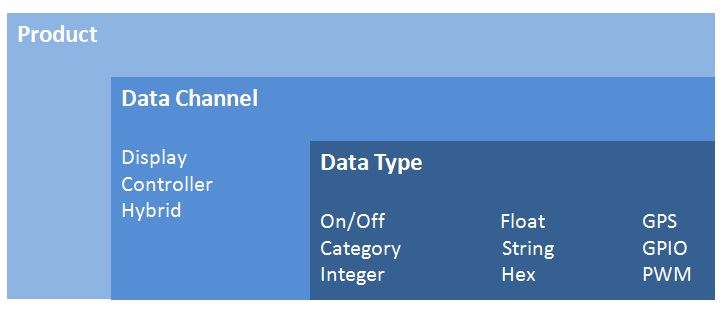
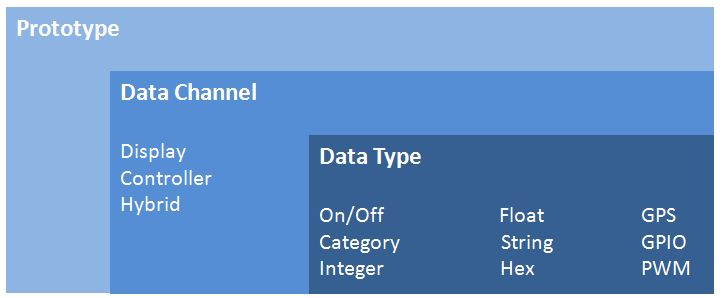
no message

diff --git a/key_concept/README.md b/key_concept/README.md
@@ -1,24 +1,23 @@
 # Key Concepts
 
-This section describes the key components that make up a Wearables or IoT device project in MediaTek Cloud Sandbox. The key components are defined across two phases:
-- Development phase
-- Management phase
+This section describes the key components that make up a Wearables or IoT device project in MediaTek Cloud Sandbox. The key components are defined across the whole prototype development phase.
 
 ## Development Phase
 
 ![](https://raw.githubusercontent.com/Mediatek-Cloud/MCS/master/graphics/product-structure.JPG)
 
-During the Development Phase you create **Products**, which may contain:
+During the Development Phase you create **Prototype**, which may contain:
 - **Data Channels**, each of a particular **Data Type**
 - **Notifications** for changes in the data received from or sent to a device
-- **User privileges** to enable team members or collaborators to view or edit products and device details
+- **User privileges** to enable team members or collaborators to view or edit prototypes and device details
 - **Firmware** versions that can be pushed to devices
-- **Manufacturer Information** that can be used to define additional information about a product
+- **Test device** enables the management of test devices for each prototype
 
-Once you have defined the necessary Product information, you can then add devices as you need throughout the development phase.
-### Product
+Once you have defined the necessary Prototype information, you can then add devices as you need throughout the development phase.
 
-A **Product** is the blueprint of the final device you’ll ship to users. Each product will have a unique product Id and product Ke. For the product maker, the product Id and product key are the differentiator for your product from the other product. When your product goes into mass production, your product's devices will use those information to be registered.
+### Prototype
+
+A **Prototype** is the blueprint of the final device you’ll ship to users. Each product will have a unique prototype Id and prototype Key. In the future, when the prototype is ready to be released, for the maker, the prototype Id and prototype key are the differentiator for your prototype from the others. When your prototype goes into mass production, your prototypes's devices will use those information to be registered.
 
 ### Data Channel
 
@@ -82,7 +81,7 @@ Each Data Channel can hold one of seven types of data:
 
 Notification function enables you to create criteria that trigger an email or cloud based notification be sent to specific users.
 
-Beta note: This feature is under development and presently enables you to set triggers on a specific channel and get an email notification, with ability to add additional user to the notified list. Triggers are available for:
+Notification enables you to set triggers on a specific channel and get an email notification, with ability to add additional user to the notified list. Triggers are available for:
 
 - data received on a channel being above or below a specific value, which will issue a defined number of notifications while the data remains above or below the trigger value
 
@@ -90,55 +89,21 @@ Beta note: This feature is under development and presently enables you to set tr
 
 
 ### User privileges
-This feature will enable you to give other MCS users various privileges to access the Product, such as the ability to view the Product settings, create a device and alike.
-Beta note: This feature hasn’t been implemented yet.
+This feature will enable you to give other MCS users various privileges to access the Prototype, such as the ability to view the Prototype settings, create a device and alike.
+
 
 ### Firmware
 
-After the product is released you can upload firmware updates to the sandbox. The sandbox will then detect all compatible devices and offer their users the option to update the devices’ firmware over the air.
+The developer can upload and manage the firmware for specific prototype. After the prototype is released you can also upload firmware updates to the sandbox. The sandbox will then detect all compatible devices and offer their users the option to update the devices’ firmware over the air.
 
+### Test Devices ###
 
-### Manufacturing Info
-
-This product attribute enables you to further describe your product with a series of items consisting of a title and description. This information will be visible to end users in their **My Devices** page.
-
-### Devices ###
-
-During development, you’re able to create test devices from the Product details. Each device you create is given a **Device ID** and **Device Key**, which you use in the MediaTek Cloud Sandbox APIs to identify data pushed and pulled to the device. Device details, along with their ID and key, are displayed in your **Management** workbench and **My Devices** page.
-
-## Management Phase
-
-Once the development of your product is complete and you wish to start pre-commercial testing, you can migrate your product to the Management Phase. Once released, you can create release devices for the product, considered as you have completed and tested you prototype phased into mass production of the product. The management phase is the management of the mass produced devices. Starting from creating each individual devices a placeholder for data interactions. The first step to so create a placeholder for each device for their initial "registration" step. The management of the devices from developer's perspective is under the Management workbench.
-### Product Release
-
-After a final product is developed and be tested using the test devices, the developer can release the product for deployment which transfer the product from the development state to the release state. After release, the end user is able to create devices out of this released product in the **Management** workbench.
-
-
-### Batch Create with Key
-
-The serial number is a unique key assigned to each device which will be accessible while the device registration. The device will need this key to enable it to be registered. The unique key can be generated by uploading a CSV file which has one device serial number per line or by entering the serial numbers manually.
-
-
-
-### Batch Create without Key
-
-When each device does not need a unique key to be registered, you can then create the devices without key.
-
-
-
-### Device Registration
-
-After a device is created, it can be registered or de-registered in the management page. While a device is registered, it is ready to be used. The user can register or de-register the device using the registerDevices and deregisterDevices. You can find the API information in the API reference page.
-
+During development, you’re able to create test devices from the Prototype details. Each device you create is given a **Device ID** and **Device Key**, which you use in the MediaTek Cloud Sandbox APIs to identify data pushed and pulled to the device. Device details, along with their ID and key, are displayed in your **My Devices** page.
 
 
 ## My Devices
 
 
-The end user can use the **My Devices** to manage the devices they own or have the access. In this page, the end user can see the exact Data Channel configurations as defined in the product. Although the end user cannot change the Data Channel configuration, the end user can do other settings base on preference. The end user can view the time-series based data in a historical visualization chart and GPS geolocation data in a map.
+The developers can use the **My Devices** to manage the devices they own or have the access. In this page, the developers can see the exact Data Channel, user privilege, and notitification configurations as defined in the prototype. However, the developers can still modify the notification and user privilege settings for specific device on the My device detail page.
 
-Apart from viewing the data channel information, the user can set notification alert, set user privileges and get the firmware update directly here in My Devices page.
-
-Also, the end user can get manufacturer information and report any error in My device page as well.
-
-Each device will have a unique set of device Id and device key, those will be needed when calling our API to access this device.
+Each device will have a unique set of device Id and device key, those will be needed when calling our API to access this device and you the developers can find those information in both My device detail page and the Test device tab in the prototype detail page.

diff --git a/README.md b/README.md
@@ -1,6 +1,6 @@
 # MediaTek Cloud Sandbox Introduction
 
-MediaTek Cloud Sandbox offers you the data and device management services commonly needed during the development and pre-commercial testing of Wearables and IoT devices. It frees you from having to develop your own cloud infrastructure to support product development.
+MediaTek Cloud Sandbox offers you the data and device management services commonly needed during the development and pre-commercial testing of Wearables and IoT devices. It frees you from having to develop your own cloud infrastructure to support prototype development.
 Using a RESTful API you collect data from your devices, which you can view in a powerful web-based dashboard that offers a range of display and graphing options. Then you can control your Wearables and IoT devices by issuing commands from the dashboard. In addition, a complementary smartphone app lets you review collected data and control your devices from anywhere.
 ![](https://raw.githubusercontent.com/Mediatek-Cloud/MCS/master/graphics/overview.JPG)
 MediaTek Cloud Sandbox lets you:
@@ -12,7 +12,7 @@ MediaTek Cloud Sandbox lets you:
 - Receive notifications when DataPoints are collected or change
 - Manage the life cycle of devices, as you would in your live implementation
 - Manage and control remotely, using the complementary mobile app
-- Create reports about products, devices and collected data
+- Create reports about prototypes, devices and collected data
 - Perform FOTA firmware updates
 - Control access to data and devices with granular security control
 
